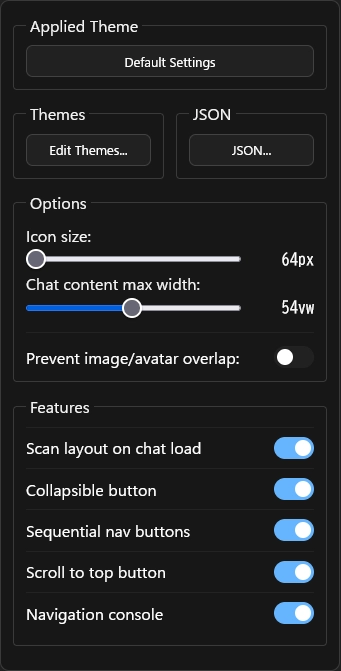
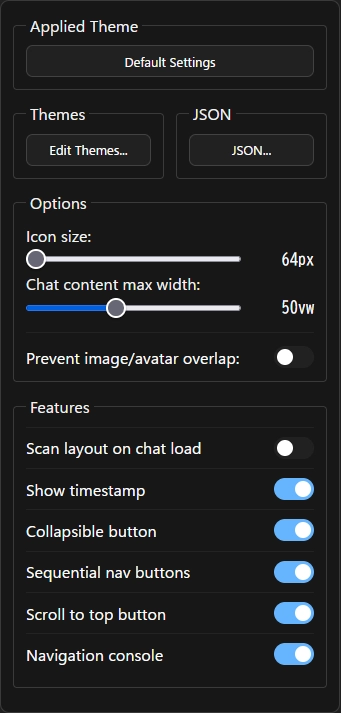
docs: update info for [GPTUX/GGGUX] v1.8.0 / [QTB] v1.3.0

diff --git a/docs/UX-Customizer/README.md b/docs/UX-Customizer/README.md
@@ -13,30 +13,35 @@ It also includes convenient UI enhancements such as **message collapsing**, **a 
 Currently, it supports the following AI services.  
 The scripts have been created for each site. Please install the required script.
 
- - **ChatGPT**: **`ChatGPT UX Customizer`** `(GPTUX)`**
- - **Gemini**: **`Gemini UX Customizer`** `(GGGUX)`**
+ - **ChatGPT**: **`ChatGPT UX Customizer`** `(GPTUX)`
+ - **Gemini**: **`Gemini UX Customizer`** `(GGGUX)`
 
 ---
 
 ## Key Features
 
-* **Intuitive theme editing via GUI**
-* Automatically switch themes (color schemes, names, icons, backgrounds, etc.) for specified projects/custom GPTs/chat titles
-* **Display "standing images"** for both user and assistant separately on the left and right sides
-* **Collapsible messages** (to display long texts compactly)
-* **Advanced message navigation** (jump to next/previous/top of message)
-* **Integrated navigation console** (displays a consolidated UI for navigation features above the message input field)
-* **Message Jump List with Search**: Instantly jump to any message from a list. You can filter messages by text or regular expressions.
-* Bulk message collapsing
-* Set a maximum width for the entire chat content
-* Flexibly specify theme application targets by name or **regular expressions**
-* Customize display names, icons, and text colors for user and assistant
-* Specify user/assistant icons using SVG, PNG, JPEG, Base64 data, external URLs, etc.
-* **Specify local files for images used in themes** (automatically converted to Base64 data)
-* Export/import settings (in JSON format)
-* **Includes sample settings, making it easy to get started.**
-* **[GGGUX only] Auto-load full chat history**: Automatically loads the entire chat history when opening a conversation, eliminating the need to manually scroll up multiple times.  
-* **[GPTUX only] Layout Scan (Firefox Only)**: Automatically performs a layout scan on chat load to mitigate scroll position jumps caused by late-loading messages or images.
+- **Powerful Theme Customization**
+  - **Automatic Theme Switching**: Automatically apply different themes (colors, names, icons, backgrounds) based on chat titles, Custom GPTs, or project names using **regular expressions**.
+  - **Intuitive Theme Editor**: Edit all theme settings via a user-friendly GUI.
+  - **Display "Standing Images"**: Show unique character images for both the user and assistant on the left and right sides of the chat.
+  - **Full Actor Customization**: Change display names, avatar icons, and text colors for both user and assistant.
+  - **Flexible Image Support**: Use SVG code, PNG/JPEG URLs, or even **local files*- (which are automatically converted to Base64) for icons and backgrounds.  
+    > (Using local files is intended for temporary previews. Overuse can easily exceed the configuration size limit; using URLs is recommended for permanent themes.)
+  - **Chat Width Control**: Set a custom maximum width for the chat content area.
+
+- **Advanced Navigation & Readability**
+  - **[ChatGPT only] Message Timestamps**: Displays the creation time for each message. It fetches historical timestamps from the API and records new ones in real-time.  
+    > (This is not available for Gemini as it's technically difficult to retrieve timestamps.)
+  - **Integrated Navigation Console**: A compact UI above the input field with message counters and quick navigation buttons.
+  - **Message Jump List with Search**: Instantly jump to any message in the conversation from a list. You can filter messages by plain text or regular expressions.
+  - **Per-Message Navigation**: Adds buttons to each message to jump to the next/previous message by the same speaker (user/assistant) or scroll to the top of the current message.
+  - **Collapsible Messages**: Adds a button to collapse long messages, and includes a "Bulk Collapse/Expand" button in the navigation console.
+
+- **Utility & Platform-Specific**
+  - **Export/Import Settings**: Easily back up and share your complete configuration as a JSON file.
+  - **[Gemini only] Auto-Load Full Chat History**: Automatically loads the entire chat history when opening a conversation, eliminating the need to manually scroll up.
+  - **[ChatGPT only] Layout Scan (Firefox Only)**: Automatically performs a layout scan on chat load to mitigate scroll position jumps caused by late-loading messages or images.
+  - **Sample Settings Included**: Get started quickly with pre-built examples.
 
 ---
 
@@ -90,10 +95,10 @@ The scripts have been created for each site. Please install the required script.
 
 ## How to Use
 
-* Click the **gear icon** in the upper right corner to **open the Settings Panel**.
-* From the Settings Panel, you can change various options or **open the Theme Editor (GUI) to create and edit themes**.
-* In the navigation console above the input field, **click on the "Assistant:", "Total:", or "User:" labels** to open the message **Jump List**.
-* If needed, use the "JSON" button to export your current settings or import sample settings.
+- Click the **gear icon** in the upper right corner to **open the Settings Panel**.
+- From the Settings Panel, you can change various options or **open the Theme Editor (GUI) to create and edit themes**.
+- In the navigation console above the input field, **click on the "Assistant:", "Total:", or "User:" labels** to open the message **Jump List**.
+- If needed, use the "JSON" button to export your current settings or import sample settings.
 
 ---
 
@@ -106,9 +111,9 @@ After applying the settings, the `defaultSet` configuration from the sample sett
 
 Next, to check the theme application for a specific project/custom GPT/chat, try the following:
 
-* Start a chat name with `[Theme1]` -> The theme for `[Theme1]` will be applied.
-* Start a chat name with `[Theme2]` -> The theme for `[Theme2]` will be applied.
-* Start a chat name with `[Game]` -> The theme for `[Game]` will be applied.
+- Start a chat name with `[Theme1]` -> The theme for `[Theme1]` will be applied.
+- Start a chat name with `[Theme2]` -> The theme for `[Theme2]` will be applied.
+- Start a chat name with `[Game]` -> The theme for `[Game]` will be applied.
 
 The samples include one default theme and three specific themes.
 Try modifying these settings to your liking. The GUI theme editor makes it easy to make changes.
@@ -117,26 +122,55 @@ Try modifying these settings to your liking. The GUI theme editor makes it easy 
 
 ## Settings Details
 
--   [Settings Screen](./settings.md)
--   [Configuration Properties](./manual_json.md)
+- [Settings Screen](./settings.md)
+- [Configuration Properties](./manual_json.md)
 
 ---
 
 ## Recommended Usage & Customization
 
-  * Enhance the feeling of a personal assistant by setting custom icons and names.
-  * Visually distinguish what you are working on by changing text colors and icons for each project.
-  * Set up character profiles for multiple work projects or TRPG sessions.
-  * Express your personality with custom icons or SVGs from Google Fonts.
-  * Flexibly match theme application targets with regular expressions.
+- **Create Immersive Characters**:  
+Build detailed profiles for creative writing or TRPG sessions. Combine **custom names, icons, and standing images*- to bring your characters to life.
+- **Visually Separate Your Work**:  
+Assign unique themes (colors, icons, backgrounds) for different projects, clients, or subjects (e.g., 'Project A', 'Code Review', 'Personal') to reduce mental friction when context-switching.
+- **Quickly Review Long Chats**:  
+Use the **Navigation Console*- and **Jump List*- (with text/regex search) to instantly find key information or review the flow of long, complex conversations.
+- **Personalize Your Workspace**:  
+Set a custom **background image*- (like your company logo, project art, or a relaxing landscape) to make your environment feel more focused and personal.
+- **Label Your Chats**:  
+Use simple icons from sources like Google Fonts (Material Symbols) to create a clear visual language for different types of chats (e.g., a "bug" icon for debugging, a "book" icon for research).
+
+---
 
 ## Notes & Limitations
 
-  * **You can specify local images for image fields in theme settings, but please do not overuse this feature.** It can lead to bloated configuration JSON and degraded performance. Whenever possible, specify online resources. The main purpose of this feature is to easily check how your local images appear when applied to a theme. While it can also be used for images you prefer not to host online, please limit its use to around 3-5 themes.
-  * This script uses the special permission `GM_xmlhttpRequest` to load external resources (such as background and standing images) without being restricted by a website's Content Security Policy (CSP). When loading images from external sites, a dialog requesting access permission for the content will appear, so please approve it for use.
-  * **If the AI service's UI or page structure undergoes major changes, the script may stop working.**
-  * It has been tested on Firefox. It has also been confirmed to work on Chrome-based browsers, but less extensively.
-  * Only the latest version of each script is provided. Past versions can be referenced from Git history. This repository does not use release or tag features.
+- **Local Image Feature & Storage Limits:**
+  - The feature to select local files (for icons, standing images, etc.) is intended primarily for **temporary previews** to see how an image looks.
+  - It works by converting the image into Base64 (text) and saving it *directly* into your settings file.
+  - **Warning:** Use this feature sparingly. Base64-encoded images are very large and can easily cause your settings file to exceed the browser's storage limit (approx. 5MB), leading to errors and poor performance.
+  - **Recommendation:** For any theme you plan to keep, please **host the images online** (e.g., on Imgur, GitHub, or a personal server) and use the URL instead.
+
+- **External Image Permissions (`GM_xmlhttpRequest`):**
+  - To load images from external URLs (e.g., `https://i.imgur.com/...`), the script requires the `GM_xmlhttpRequest` permission.
+  - The *first time* you add an image from a new domain, your userscript manager (Tampermonkey/Violentmonkey) will prompt you to grant access to that specific domain. You must **approve this** for the images to load.
+
+- **Site Updates:**
+  - This script is tightly coupled to the website's UI structure. If ChatGPT or Gemini releases a major UI update, the script **will likely break** and require an update to function correctly.
+
+- **Browser Support:**
+  - The script is primarily developed and tested on **Firefox** with **Tampermonkey**.
+  - It is also confirmed to work on Chrome-based browsers, but testing on these platforms is less extensive.
+
+- **Versioning:**
+  - This repository only provides the latest version of the script. Past versions are not tracked via GitHub Releases or tags; please refer to the Git commit history if needed.
+
+---
+
+## Tested Environment
+
+- This script is designed for **desktop browsers** and does not support mobile environments.
+- This script is primarily developed and tested on **Firefox** with **Tampermonkey**.
+- It is also confirmed to work on Chromium-based browsers, but testing on these platforms is less extensive.
 
 -----
 
@@ -150,22 +184,3 @@ MIT License
 
   * [p65536](https://github.com/p65536)
 
------
-
-## Known Issues
-
-  * No consideration for UI when using Canvas features.
-
-## Future Plans
-
-### High Priority (Items the author wants to implement)
-
-  * Additional UI adjustments when using Canvas (e.g., how the navigation console is displayed)
-  
-### Low Priority (Items under consideration but not deemed necessary at present)
-
-  * Cloud-based settings synchronization (local management via export/import is sufficient).
-  * Theme application to the sidebar.
-  * Font changes for the input area.
-  * On/off switch for theme application to the toolbar area (the top area with project name, chat title, account icon, etc.) (Initially, the toolbar was excluded from theme application, but it stood out more than expected, so it's now fully applied).
-  * Applying themes to Canvas

diff --git a/README.md b/README.md
@@ -20,20 +20,16 @@ Each script is developed independently and can be installed separately.
 
 ## Recent Updates
 
+### 2025/11/16
+- Updated `ChatGPT UX Customizer`/`Gemini UX Customizer` (v1.7.2 -> v1.8.0)
+- Updated `Quick Text Buttons` (v1.2.0 -> v1.3.0)
+
 ### 2025/11/13
 - Updated `ChatGPT UX Customizer`/`Gemini UX Customizer` (v1.7.1 -> v1.7.2)
 - Updated `ChatGPT UX Customizer`/`Gemini UX Customizer` (v1.7.0 -> v1.7.1)
 
 ### 2025/11/10
 - Updated `ChatGPT UX Customizer`/`Gemini UX Customizer` (v1.6.1 -> v1.7.0)
-
-### 2025/10/25
-- Updated `ChatGPT UX Customizer`/`Gemini UX Customizer` (v1.6.0 -> v1.6.1)
-
-### 2025/10/19
-- Updated `ChatGPT UX Customizer`/`Gemini UX Customizer` (v1.5.5 -> v1.6.0)  
-    > This release introduces a large-scale refactoring of the codebase.  
-    > All major functions have been tested, but please let me know if you encounter any issues.
 
 ---
 
@@ -45,8 +41,8 @@ A script that adds powerful theme and navigation features. For each chat, you ca
 
 | Platform | GitHub | Greasy Fork | Version | Last Updated | Changelog |
 | :--- | :--- | :--- | :--- | :--- | :--- |
-| **ChatGPT** | [![Download](https://img.shields.io/badge/Download-blue?style=flat-square&logo=download)](https://raw.githubusercontent.com/p65536/AI-UX-Customizer/main/scripts/UX-Customizer/ChatGPT-UX-Customizer.user.js) | [![Greasy Fork](https://img.shields.io/badge/Install-green?style=flat-square&logo=greasyfork)](https://greasyfork.org/en/scripts/543703-chatgpt-ux-customizer) | 1.7.2 | 2025/11/13 | [View](./docs/UX-Customizer/CHANGELOG_AIUXC.md) |
-| **Gemini** | [![Download](https://img.shields.io/badge/Download-blue?style=flat-square&logo=download)](https://raw.githubusercontent.com/p65536/AI-UX-Customizer/main/scripts/UX-Customizer/Gemini-UX-Customizer.user.js) | [![Greasy Fork](https://img.shields.io/badge/Install-green?style=flat-square&logo=greasyfork)](https://greasyfork.org/en/scripts/543704-gemini-ux-customizer) | 1.7.2 | 2025/11/13 | [View](./docs/UX-Customizer/CHANGELOG_AIUXC.md) |
+| **ChatGPT** | [![Download](https://img.shields.io/badge/Download-blue?style=flat-square&logo=download)](https://raw.githubusercontent.com/p65536/AI-UX-Customizer/main/scripts/UX-Customizer/ChatGPT-UX-Customizer.user.js) | [![Greasy Fork](https://img.shields.io/badge/Install-green?style=flat-square&logo=greasyfork)](https://greasyfork.org/en/scripts/543703-chatgpt-ux-customizer) | 1.8.0 | 2025/11/16 | [View](./docs/UX-Customizer/CHANGELOG_AIUXC.md) |
+| **Gemini** | [![Download](https://img.shields.io/badge/Download-blue?style=flat-square&logo=download)](https://raw.githubusercontent.com/p65536/AI-UX-Customizer/main/scripts/UX-Customizer/Gemini-UX-Customizer.user.js) | [![Greasy Fork](https://img.shields.io/badge/Install-green?style=flat-square&logo=greasyfork)](https://greasyfork.org/en/scripts/543704-gemini-ux-customizer) | 1.8.0 | 2025/11/16 | [View](./docs/UX-Customizer/CHANGELOG_AIUXC.md) |
 
 **[View Detailed Features & Manual for UX Customizer](./docs/UX-Customizer/README.md)**
 
@@ -61,7 +57,7 @@ A utility script that adds buttons to quickly insert predefined text or prompts.
 
 | Platform | GitHub | Greasy Fork | Version | Last Updated | Changelog |
 | :--- | :--- | :--- | :--- | :--- | :--- |
-| **ChatGPT** & **Gemini** | [![Download](https://img.shields.io/badge/Download-blue?style=flat-square&logo=download)](https://raw.githubusercontent.com/p65536/AI-UX-Customizer/main/scripts/Quick-Text-Buttons/Quick-Text-Buttons.user.js) | [![Greasy Fork](https://img.shields.io/badge/Install-green?style=flat-square&logo=greasyfork)](https://greasyfork.org/en/scripts/544699-quick-text-buttons) | 1.2.0 | 2025/09/25 | [View](./docs/Quick-Text-Buttons/CHANGELOG_QTBUX.md) |
+| **ChatGPT** & **Gemini** | [![Download](https://img.shields.io/badge/Download-blue?style=flat-square&logo=download)](https://raw.githubusercontent.com/p65536/AI-UX-Customizer/main/scripts/Quick-Text-Buttons/Quick-Text-Buttons.user.js) | [![Greasy Fork](https://img.shields.io/badge/Install-green?style=flat-square&logo=greasyfork)](https://greasyfork.org/en/scripts/544699-quick-text-buttons) | 1.3.0 | 2025/11/16 | [View](./docs/Quick-Text-Buttons/CHANGELOG_QTBUX.md) |
 
 **[View Detailed Features & Manual for Quick Text Buttons](./docs/Quick-Text-Buttons/README.md)**
 
@@ -78,6 +74,14 @@ A utility script that adds buttons to quickly insert predefined text or prompts.
 
 1.  As a precaution, **export your settings**.
 2.  Open the script to be updated in the Tampermonkey dashboard and **replace the entire content** with the latest version, then save. (The Greasy Fork version updates automatically).
+
+## Tested Environment
+
+- These scripts are designed for **desktop browsers** and does not support mobile environments.
+- These scripts are primarily developed and tested on **Firefox** with **Tampermonkey**.
+- It is also confirmed to work on Chromium-based browsers, but testing on these platforms is less extensive.
+
+---
 
 ## License
 

diff --git a/docs/UX-Customizer/manual_json.md b/docs/UX-Customizer/manual_json.md
@@ -38,7 +38,10 @@ The following is a sample to illustrate the JSON structure. **Ready-to-use sampl
     },
     "load_full_history_on_chat_load": {
       "enabled": true
-    }
+    },
+    "timestamp": {
+      "enabled": true,
+    },
 },
   "themeSets": [
     {
@@ -167,12 +170,17 @@ Configure ON/OFF and thresholds for convenient UI improvement features.
 | `scroll_to_top_button` | Displays a button to scroll to the top of a message (or turn) at the bottom of each message bubble.  | `{ "enabled": true }` | `true`/`false`<br>Displays on the bottom-left for assistant and bottom-right for user.  |
 | `fixed_nav_console` | Displays an integrated navigation console at the top of the message input field.  | `{ "enabled": true }` | `true`/`false`<br>Displays a console bar consolidating navigation-related features for efficient message movement.  |
 | `load_full_history_on_chat_load` | `GPTUX` (Firefox only)<br>Enables "layout scan and rescan DOM" on chat load.<br>`GGGUX`<br>Enables auto-load full chat history on chat load.  | `{ "enabled": true }` | `true`/`false`<br>`GPTUX`<br>Automatically scans the chat layout when opening a chat (Firefox only. See notes below.).<br>`GGGUX`<br>Automatically loads the entire chat history when opening a chat.  |
+| `timestamp` | `GPTUX` **[ChatGPT only]**<br>Displays the creation time for each message. | `{ "enabled": true }` | `true`/`false`<br>`GPTUX` (ChatGPT) only.<br>This feature is not available for Gemini as it is technically difficult to retrieve timestamps. |
 
 ##### Notes about `load_full_history_on_chat_load` (ChatGPT / Firefox-only Option):
 When using Firefox, you may experience a "rubber-banding" or scroll-bouncing effect while scrolling. This is likely caused by layout shifts, where the height of off-screen elements (suspected to be the avatar icons) is calculated late, causing the entire page to reflow.  
 Setting this option to `true` will automatically run a "layout scan" (which simulates scrolling through the entire chat) when a conversation is loaded. This process forces the browser to calculate and finalize the height of all elements, mitigating this scrolling issue.  
 If this option is set to `false`, you can still run this function manually at any time by pressing the "Layout Scan" button on the far left of the navigation console.  
 
+##### Notes about `timestamp` (ChatGPT-only Feature):
+This feature displays the precise creation time for each message.  
+This is made possible by intercepting the `/backend-api/conversation/` API request on ChatGPT, which contains historical timestamp data. This interception requires the script to run at `document-start`.  
+This feature is **not implemented for Gemini** because Gemini uses a different data loading mechanism, and a similar API endpoint providing historical timestamps is not available for interception.
 
 -----
 

diff --git a/docs/UX-Customizer/settings.md b/docs/UX-Customizer/settings.md
@@ -1,8 +1,12 @@
 # AI UX Customizer Settings Screen
 
-## Settings Screen
+## Settings Panel
 
-### 1. Click the Settings button in the upper right corner to open the Settings Panel
+Access global options and feature toggles from one panel.  
+For creating and editing specific visual themes (colors, backgrounds, standing images), use the **Theme Editor** (Theme settings), accessible via the "Edit Themes..." button in this panel.
+
+
+### 1. You can access the Settings Panel by clicking the "Settings" button (gear icon) added to the screen.
 
 ![Settings button](./images/settings_button.webp)
 
@@ -23,12 +27,15 @@
 | **Prevent image/avatar overlap** | When ON, the display area will automatically adjust so that standing images do not overlap avatar icons. |
 | **[GPTUX only]**<br>**Scan layout on chat load** | **[ChatGPT only] (Firefox only)**<br>Automatically scans the chat layout when opening a chat.<br>When using Firefox, scrolling may feel rubbery due to delayed layout calculations. Enabling this option runs an automatic "layout scan" on chat load to pre-calculate element heights and reduce the issue.<br>It can also be triggered manually via the "Layout Scan" button (the left end button on navigation console). |
 | **[GGGUX only]**<br>**Load full history on chat load** | **[Gemini only]**<br>Automatically loads the entire chat history when opening a chat.<br>It can also be triggered manually via the "Load full chat history" button (the left end button on navigation console). |
+| **[GPTUX only]**<br>**Show timestamp** | **[ChatGPT only]**<br>Displays the creation time for each message.<br>(This feature is not available for Gemini as it is technically difficult to retrieve timestamps.) |
 | **Collapsible button** | Adds a button to each message to collapse long messages. |
 | **Sequential nav buttons** | Adds buttons to each message to jump to the next/previous message by the same speaker (user/assistant). |
 | **Scroll to top button** | Adds a button to each message to scroll to the top of that message. |
 | **Navigation console** | Displays an operation panel above the text input field for quick navigation between messages. |
 
 ### 3. Theme Settings Screen Items
+
+A GUI editor allows for intuitive customization of all visual elements, including colors, fonts, backgrounds, and standing images.
 
 ![Theme Editor](./images/theme_settings.webp)
 

diff --git a/docs/UX-Customizer/CHANGELOG_AIUXC.md b/docs/UX-Customizer/CHANGELOG_AIUXC.md
@@ -4,6 +4,18 @@
 > This changelog applies to both **ChatGPT UX Customizer (GPTUX)** and **Gemini UX Customizer (GGGUX)**.
 > Most changes are shared between the two scripts. If a change applies only to one, it will be explicitly marked with a `[GPTUX]` or `[GGGUX]` prefix.
 
+## [1.8.0] - 2025-11-16
+- **New Features**
+  - **[GPTUX]** Added a new **Message Timestamp** feature to display the creation time for each message (enabled by default). This feature intercepts API requests to load historical timestamps and records new ones in real-time.
+  - **[GPTUX]** A "Show timestamp" toggle has been added to the settings panel to control this feature.
+- **Core Changes**
+  - Changed the script execution timing (`@run-at`) from `document-idle` to `document-start`. This is a foundational change required for API interception for Timestamps.
+  - Hardened core lifecycle logic (`Sentinel`, `ObserverManager`) to ensure robust operation when running at `document-start`, particularly improving how page navigation completion is detected.
+  - Improved observer performance and isolation by refactoring panel/toolbar observers (like the one for the settings button) to use their own dedicated `Sentinel` instances. This allows for cleaner setup and teardown.
+  - Updated the main `Sentinel` prefix to `OWNERID + APPID` to ensure no conflicts between other scripts.
+- **Fixes & Improvements**
+  - **[GPTUX]** Implemented dynamic repositioning for the settings button. It will now automatically move to the left to avoid overlapping with the ChatGPT header toolbar (e.g., when the 'Share' button appears).
+
 ## [1.7.2] - 2025-11-13
 - **Bug Fixes**
   - Fixed an issue where URL hash changes (e.g., `#settings`) were incorrectly detected as a full page navigation.

diff --git a/docs/Quick-Text-Buttons/CHANGELOG_QTBUX.md b/docs/Quick-Text-Buttons/CHANGELOG_QTBUX.md
@@ -1,5 +1,16 @@
 # Changelog
 
+## [1.3.0] - 2025-11-16
+- **New Features & UI Improvements**
+  - **[ChatGPT]** Improved button positioning logic. The buttons will now detect and avoid colliding with other UI elements (like native buttons or other UserScripts).
+- **Fixes**
+  - Fixed a major bug where the script would fail to re-initialize or position buttons correctly when using SPA navigation (e.g., switching chats or navigating from /gpts to a chat) without a full page reload.
+- **Core Changes & Refactoring**
+  - Rebuilt the Settings Panel using a new declarative UI schema. This internal refactor improves maintainability and makes future options easier to add.
+  - Modernized core utilities (Logger, EventBus, Sentinel) for better performance, debugging, and stability.
+  - Improved config merging to correctly preserve nested user settings (like `options` and `developer` settings) instead of being overwritten by defaults.
+  - Introduced new internal utilities (`withLayoutCycle`, `runWhenIdle`) to optimize layout performance and task scheduling.
+
 ## [1.2.0] - 2025-09-25
 - **Performance & Stability**
   - Reworked the internal event handling system to be more efficient. This reduces the script's resource usage and improves responsiveness.
